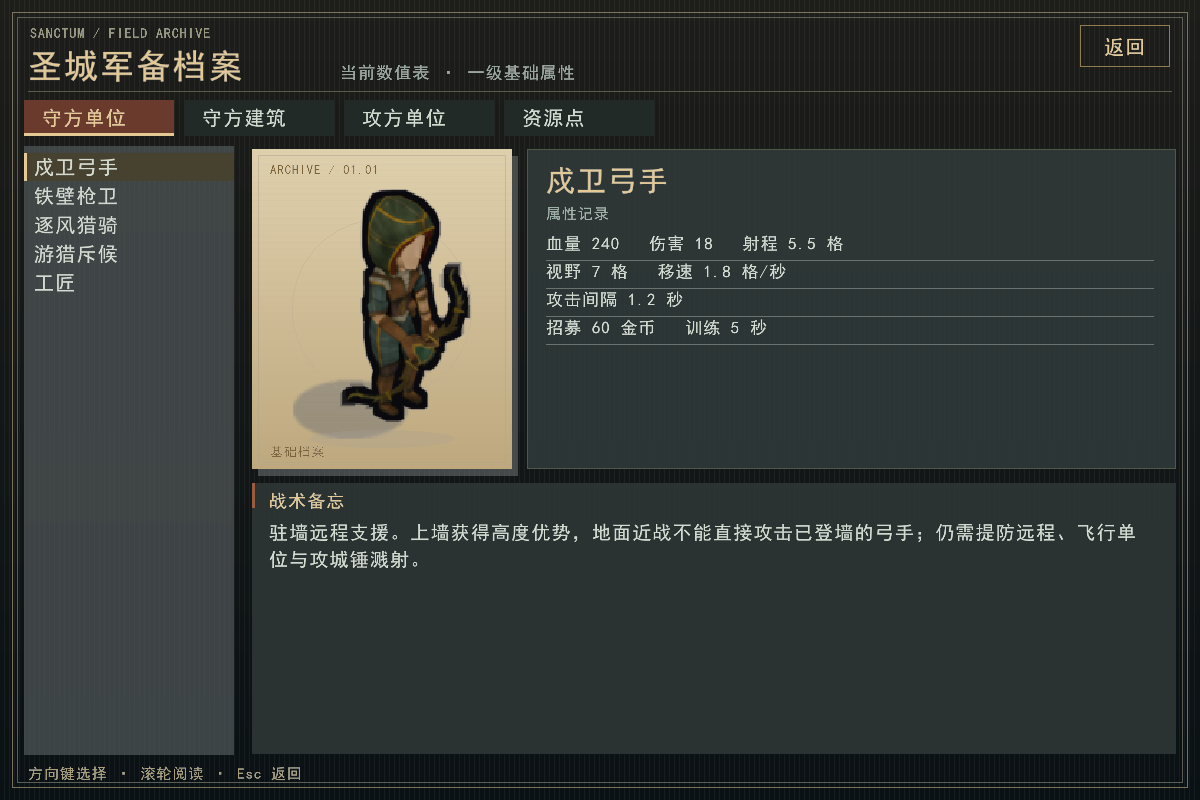
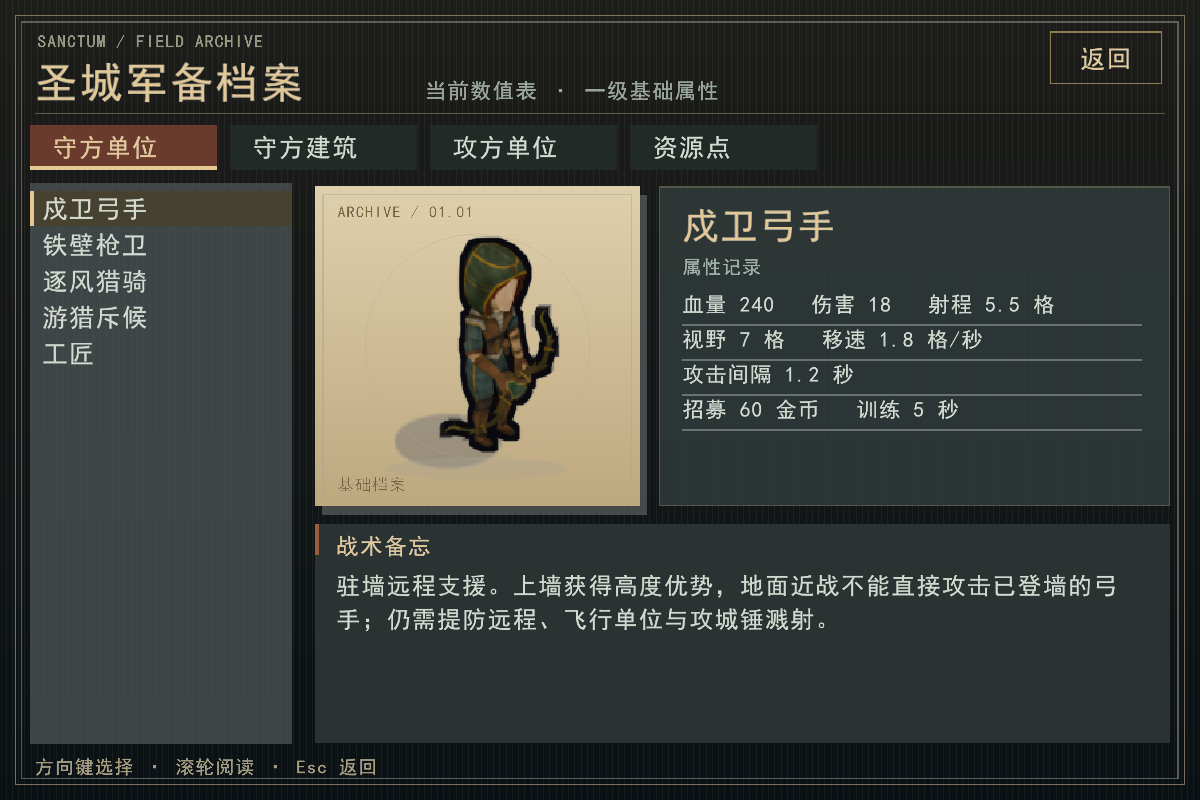
Scale field guide layout and input consistently across resolutions

Changed region(s): [[0.0, 0.0, 1.0, 1.0], [0.4933, 0.0938, 0.6167, 0.125], [0.7092, 0.5, 0.8017, 0.5312]]

diff --git a/render/include/render/field_guide.hpp b/render/include/render/field_guide.hpp
@@ -110,6 +110,18 @@ inline std::vector<std::string_view> guide_strings() {
     for(auto t:resource_notes) result.push_back(t);
     return result;
 }
+// All layout, pointer input and clipping share one logical coordinate system.
+// A 960x540 baseline grows uniformly on large screens; ultrawide content stays centered.
+struct GuideViewport {
+    float zoom;
+    Vector2 size,offset;
+    explicit GuideViewport(Vector2 pixels) : zoom(std::max(0.01f,std::min(pixels.x/960.0f,pixels.y/540.0f))),
+        size{std::min(pixels.x/zoom,1280.0f),std::min(pixels.y/zoom,800.0f)},
+        offset{(pixels.x-size.x*zoom)/2,(pixels.y-size.y*zoom)/2} {}
+    Vector2 pointer(Vector2 p) const {return {(p.x-offset.x)/zoom,(p.y-offset.y)/zoom};}
+    Rectangle pixels(Rectangle r) const {return {offset.x+r.x*zoom,offset.y+r.y*zoom,r.width*zoom,r.height*zoom};}
+    Camera2D camera() const {return {offset,{0,0},0,zoom};}
+};
 inline Rectangle guide_back_button(Vector2 vp) {return {vp.x-120,25,90,42};}
 class FieldGuide {
     int tab_=0,selected_=0;
@@ -119,7 +131,8 @@ class FieldGuide {
 public:
     void preview(int index) {tab_=index<5?0:index<16?1:index<22?2:3;selected_=index-(tab_==0?0:tab_==1?5:tab_==2?16:22);}
     bool input(Vector2 vp) {
-        auto mouse=GetMousePosition();
+        const GuideViewport viewport(vp);vp=viewport.size;
+        const auto mouse=viewport.pointer(GetMousePosition());
         if(IsKeyPressed(KEY_ESCAPE) || (IsMouseButtonPressed(MOUSE_BUTTON_LEFT)&&CheckCollisionPointRec(mouse,guide_back_button(vp)))) return true;
         for(int t=0;t<4;++t) if(IsMouseButtonPressed(MOUSE_BUTTON_LEFT)&&CheckCollisionPointRec(mouse,{24+static_cast<float>(t)*160,100,150,36})) {tab_=t;selected_=0;scroll_=0;}
         int next=selected_;
@@ -131,6 +144,9 @@ public:
         return false;
     }
     void draw(const FontSet& font,SpriteAtlas& atlas,const rts::StatsTable& stats,Vector2 vp) {
+        archive_backdrop(vp);
+        const GuideViewport viewport(vp);vp=viewport.size;
+        BeginMode2D(viewport.camera());
         archive_backdrop(vp);
         const Color gold{228,201,149,255},white{210,219,207,255};
         font.draw("SANCTUM / FIELD ARCHIVE",{30,26},14,Color{153,153,126,255});
@@ -194,10 +210,12 @@ public:
         DrawRectangleRec({252,note_top,3,25},Color{155,92,62,255});
         font.draw("战术备忘",{269,note_top+9},18,gold);
         const float top=note_top+40,bottom=vp.y-54,width=vp.x-324;float ty=top-scroll_;
-        BeginScissorMode(269,static_cast<int>(top),static_cast<int>(width),static_cast<int>(std::max(1.0f,bottom-top)));
+        const auto clip=viewport.pixels({269,top,width,std::max(1.0f,bottom-top)});
+        BeginScissorMode(static_cast<int>(clip.x),static_cast<int>(clip.y),static_cast<int>(clip.width),static_cast<int>(clip.height));
         line.clear();auto flush=[&]() {font.draw(line,{269,ty},19,white);ty+=27;line.clear();};
         for(std::size_t i=0;i<notes.size();) {int bytes=0;GetCodepointNext(notes.c_str()+i,&bytes);auto glyph=notes.substr(i,static_cast<std::size_t>(bytes));if(!line.empty()&&font.measure(line+glyph,19).x>width && std::string_view("，。；、！？：）").find(glyph)==std::string_view::npos) flush();line+=glyph;i+=static_cast<std::size_t>(bytes);}if(!line.empty()) flush();EndScissorMode();max_scroll_=std::max(0.0f,ty+scroll_-bottom);
         font.draw("方向键选择 · 滚轮阅读 · Esc 返回",{28,vp.y-34},15,Color{169,158,121,255});
+        EndMode2D();
 
     }
 };

diff --git a/docs/defense-and-campaign.md b/docs/defense-and-campaign.md
@@ -55,3 +55,11 @@
 ![开发者面板](images/developer-panel.png)
 
 本轮完整测试 113/113 通过；最终寻路缓存、存档和界面复核 30/30 通过。补充袭击测试覆盖从射程外主动接近采集建筑。
+
+### 图鉴分辨率适配
+
+图鉴使用 960×540 逻辑基准，按窗口宽高的较小缩放比例同步放大文字、导航、立绘与间距；超宽屏限制内容宽度并居中。鼠标位置反向映射到同一逻辑坐标，滚动区裁剪转换到屏幕坐标，窗口改变尺寸后即时重算。
+
+验证：25 条目及 1920×1080、2559×1368、2560×1440、3840×2160、3440×1440 共 30 项图鉴渲染测试通过。
+
+![2K 图鉴适配](images/field-guide-2k.png)
